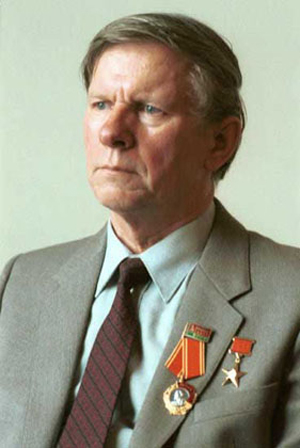
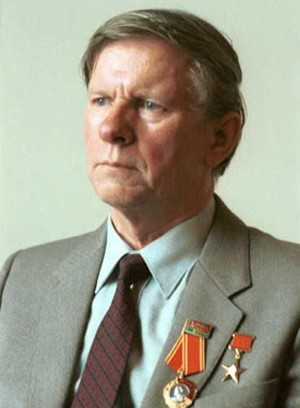
refactor: fix styles and cards structure, change size of images

diff --git a/src/components/AuthorList/AuthorListCards/AuthorListCards.tsx b/src/components/AuthorList/AuthorListCards/AuthorListCards.tsx
@@ -1,0 +1,37 @@
+import React from 'react';
+import { Card, Button } from 'react-bootstrap';
+import './AuthorListCards.scss';
+
+interface AuthorListCardsProps {
+  list: object[]
+}
+
+const AuthorListCards: React.FC<AuthorListCardsProps> = ({ list }) => {
+  return (
+          <ul className="row row-cols-3 list-unstyled list">        
+              {list.map((item: any) => (  
+                <li className="col mb-4" key={item.id}>       
+                <Card key={item.id}>
+                <Card.Img className="shadow rounded" src={item.image} alt={item.name}/>
+                <Card.Body className="photo">
+                  <Card.Title>{item.name}</Card.Title>
+                  <Card.Text>
+                    {item.birthCity}
+                  </Card.Text>
+                  <Button variant="outline-info">Узнать больше</Button>
+                </Card.Body>
+              </Card>  
+              </li>    
+              ))}          
+          </ul>
+        )        
+}
+
+export { AuthorListCards };
+
+
+
+
+
+
+

diff --git a/src/components/AuthorList/AuthorListCards/AuthorListCards.scss b/src/components/AuthorList/AuthorListCards/AuthorListCards.scss
@@ -1,0 +1,45 @@
+$width-full: 100%;
+
+.row {
+    padding-top: 1rem;
+    justify-content: center;
+}
+
+.card-img {
+    cursor: pointer;
+    max-width: $width-full;
+    width: fit-content;
+    transition: transform 1s cubic-bezier(.23,1,.32,1);
+
+        &:hover {
+            transform: scale(1.07);
+            transition: transform 1s cubic-bezier(.23,1,.32,1);
+        }       
+}
+
+.row-cols-3>* {
+    min-width: 200px;
+    display: flex;
+}
+
+.card {
+    border: none;
+    text-align: center;
+    align-items: center;
+    padding-top: 15px;
+}
+
+.card-body {
+    padding: 1rem;
+    display: flex;
+    flex-wrap: wrap;
+    align-items: center;
+    justify-content: center;
+    width: $width-full;
+}
+
+p {
+    width: $width-full;
+}
+
+

diff --git a/src/components/AuthorList/AuthorListApp/AuthorListApp.tsx b/src/components/AuthorList/AuthorListApp/AuthorListApp.tsx
@@ -1,5 +1,7 @@
 import React, { Component } from 'react';
-import { AuthorListCards } from './AuthorListCards';
+import { Container } from 'react-bootstrap';
+import { AuthorListCards } from '../AuthorListCards/AuthorListCards';
+import { AuthorListSearch } from '../AuthorListSearch/AuthorListSearch';
 
 interface AuthorListAppState {
   filterList: object[]
@@ -30,7 +32,10 @@ class AuthorListApp extends Component<AuthorListAppProps, AuthorListAppState> {
       const { filterList } = this.state;
 
       return (
-        <AuthorListCards list={filterList}/>
+        <Container>
+          <AuthorListSearch />
+          <AuthorListCards list={filterList}/>
+        </Container>
       )
     }
 } 

diff --git a/src/components/AuthorList/AuthorListSearch/AuthorListSearch.tsx b/src/components/AuthorList/AuthorListSearch/AuthorListSearch.tsx
@@ -1,0 +1,18 @@
+import React from 'react';
+import './AuthorListSearch.scss';
+
+const AuthorListSearch: React.FC = () => {
+    return (
+        <div>
+            <input type="text" className="input" placeholder="Поиск..." />       
+            <label>Name
+                <input type="checkbox" value="Name"/>
+            </label>
+            <label>City
+                <input type="checkbox" value="City"/>
+            </label>
+        </div>
+    )
+}
+
+export { AuthorListSearch };

diff --git a/src/components/AuthorList/index.tsx b/src/components/AuthorList/index.tsx
@@ -1,2 +1,2 @@
 import './index.scss';
-export { default } from './AuthorListApp';
+export { default } from './AuthorListApp/AuthorListApp';
